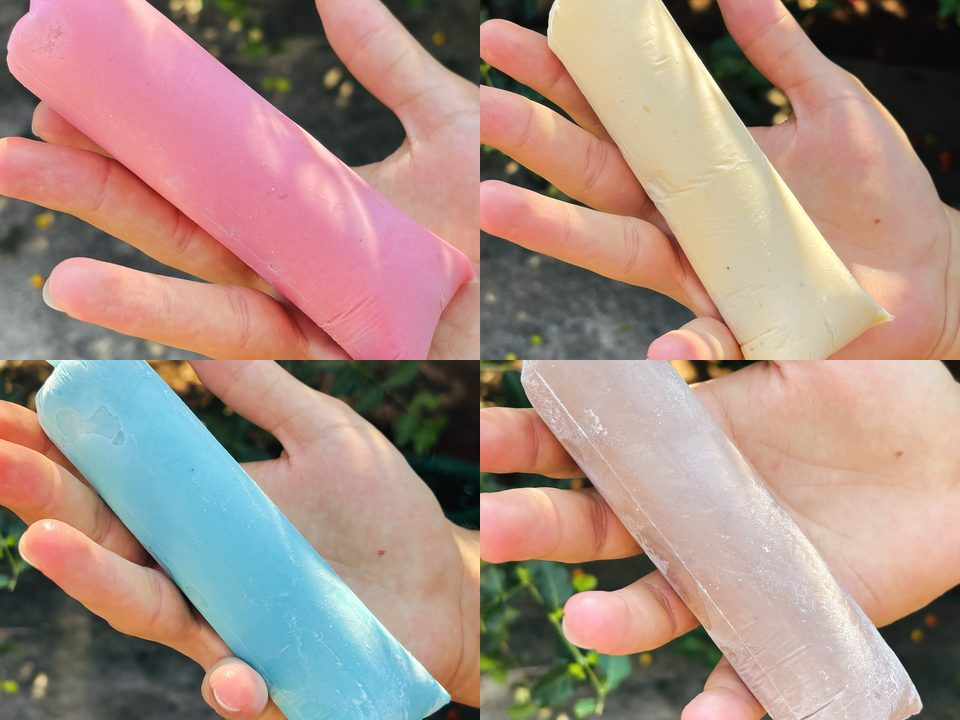
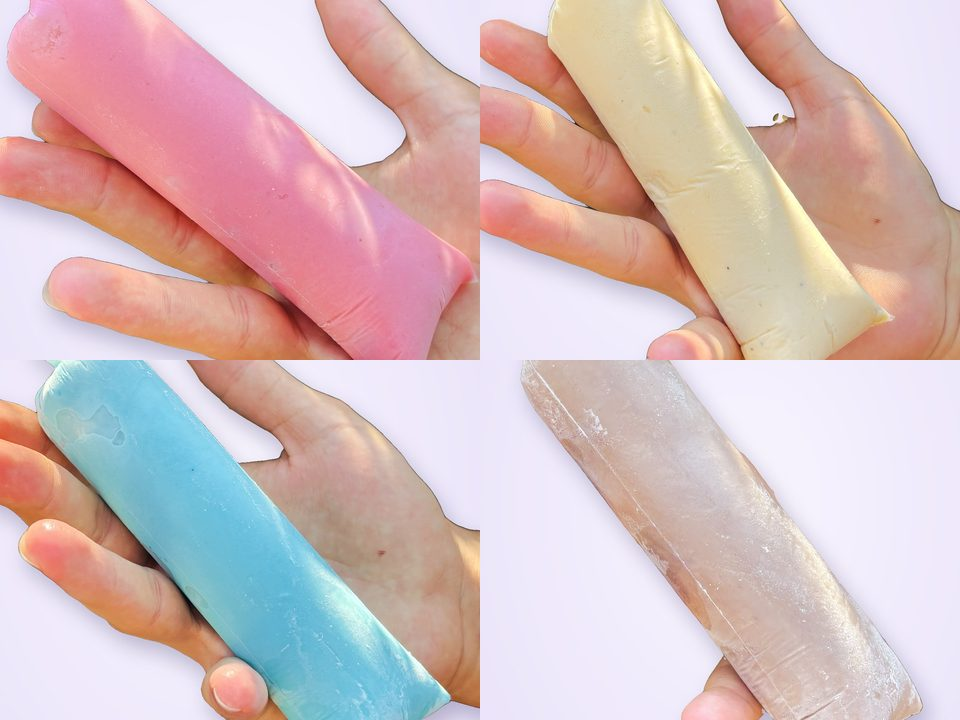
Fotos reais com fundo lilás da marca
Claude-Session: https://claude.ai/code/session_018LpWb9CWqbCqmGg4cnmTw6

diff --git a/brigadeiros/index.html b/brigadeiros/index.html
@@ -48,7 +48,7 @@
         <p class="apoio">A caixinha com a corujinha na tampa leva 4 brigadeiros. Pega a sortida ou escolhe os sabores que vão dentro.</p>
         <p class="preco"><span class="preco-grande">R$ 12</span> <span class="preco-nota">a caixinha</span></p>
       </div>
-      <div class="foto"><img src="/assets/img/brigadeiros.jpg?v=2" alt="Caixinha aberta com 4 brigadeiros" width="960" height="720"></div>
+      <div class="foto"><img src="/assets/img/brigadeiros.jpg?v=3" alt="Caixinha aberta com 4 brigadeiros" width="960" height="720"></div>
     </div>
   </section>
 
@@ -57,7 +57,7 @@
       <h2>Pronta ou do seu jeito</h2>
       <ul class="sabores">
         <li class="item sabor" data-nome="Caixinha sortida (4 brigadeiros)" data-preco="12">
-          <img class="sabor-foto" src="/assets/img/brigadeiros.jpg?v=2" alt="" width="88" height="88" loading="lazy">
+          <img class="sabor-foto" src="/assets/img/brigadeiros.jpg?v=3" alt="" width="88" height="88" loading="lazy">
           <div>
             <h3>Caixinha sortida</h3>
             <p class="sabor-nota">2 de chocolate, 1 de morango e 1 de chocolate branco</p>
@@ -81,7 +81,7 @@
         </div>
         <ul class="itens montador-sabores">
           <li class="item montador-sabor" data-sabor="chocolate">
-            <img class="sabor-foto" src="/assets/img/sabores/brigadeiro-chocolate.jpg?v=2" alt="" width="88" height="88" loading="lazy">
+            <img class="sabor-foto" src="/assets/img/sabores/brigadeiro-chocolate.jpg?v=3" alt="" width="88" height="88" loading="lazy">
             <span>Chocolate</span>
             <span class="contador">
               <button type="button" data-menos aria-label="Tirar 1 brigadeiro de chocolate">−</button>
@@ -90,7 +90,7 @@
             </span>
           </li>
           <li class="item montador-sabor" data-sabor="morango">
-            <img class="sabor-foto" src="/assets/img/sabores/brigadeiro-morango.jpg?v=2" alt="" width="88" height="88" loading="lazy">
+            <img class="sabor-foto" src="/assets/img/sabores/brigadeiro-morango.jpg?v=3" alt="" width="88" height="88" loading="lazy">
             <span>Morango</span>
             <span class="contador">
               <button type="button" data-menos aria-label="Tirar 1 brigadeiro de morango">−</button>
@@ -99,7 +99,7 @@
             </span>
           </li>
           <li class="item montador-sabor" data-sabor="chocolate branco">
-            <img class="sabor-foto" src="/assets/img/sabores/brigadeiro-chocolate-branco.jpg?v=2" alt="" width="88" height="88" loading="lazy">
+            <img class="sabor-foto" src="/assets/img/sabores/brigadeiro-chocolate-branco.jpg?v=3" alt="" width="88" height="88" loading="lazy">
             <span>Chocolate branco</span>
             <span class="contador">
               <button type="button" data-menos aria-label="Tirar 1 brigadeiro de chocolate branco">−</button>
@@ -154,7 +154,7 @@
 <a class="flutuante" href="https://wa.me/5537998765591?text=Oi%20Maju%21%20Vim%20pelo%20site%20e%20quero%20fazer%20uma%20encomenda." target="_blank" rel="noopener" aria-label="Pedir pelo WhatsApp">
   <svg viewBox="0 0 24 24" width="28" height="28" aria-hidden="true"><path fill="currentColor" d="M12 2a10 10 0 0 0-8.6 15.1L2 22l5-1.3A10 10 0 1 0 12 2zm0 18.2a8.2 8.2 0 0 1-4.2-1.2l-.3-.2-3 .8.8-2.9-.2-.3A8.2 8.2 0 1 1 12 20.2zm4.5-6.1c-.2-.1-1.5-.7-1.7-.8s-.4-.1-.6.1-.7.8-.8 1-.3.2-.5.1a6.7 6.7 0 0 1-3.3-2.9c-.3-.4.3-.4.7-1.3.1-.2 0-.3 0-.4l-.8-1.8c-.2-.5-.4-.4-.6-.4h-.5a1 1 0 0 0-.7.3 3 3 0 0 0-.9 2.2 5.2 5.2 0 0 0 1.1 2.7 11.8 11.8 0 0 0 4.5 4c1.7.7 2.3.8 3.2.6a2.6 2.6 0 0 0 1.7-1.2 2.1 2.1 0 0 0 .1-1.2c0-.1-.2-.2-.4-.3z"/></svg>
 </a>
-<script src="/assets/pedido.js?v=4" defer></script>
+<script src="/assets/pedido.js?v=5" defer></script>
 <script src="/assets/voltar.js?v=3" defer></script>
 </body>
 </html>

diff --git a/bolos/index.html b/bolos/index.html
@@ -48,7 +48,7 @@
         <p class="apoio">Fatia generosa no potinho quadrado com tampa. Escolhe os sabores e quantos de cada.</p>
         <p class="preco"><span class="preco-grande">R$ 12</span> <span class="preco-nota">o potinho</span></p>
       </div>
-      <div class="foto"><img src="/assets/img/bolos.jpg?v=2" alt="Bolo de fatia de chocolate no potinho" width="960" height="720"></div>
+      <div class="foto"><img src="/assets/img/bolos.jpg?v=3" alt="Bolo de fatia de chocolate no potinho" width="960" height="720"></div>
     </div>
   </section>
 
@@ -57,7 +57,7 @@
       <h2>Escolhe os sabores</h2>
       <ul class="sabores">
         <li class="item sabor" data-nome="Bolo de fatia chocolate com maracujá" data-preco="12">
-          <img class="sabor-foto" src="/assets/img/sabores/bolo-chocolate-maracuja.jpg?v=2" alt="" width="88" height="88" loading="lazy">
+          <img class="sabor-foto" src="/assets/img/sabores/bolo-chocolate-maracuja.jpg?v=3" alt="" width="88" height="88" loading="lazy">
           <div>
             <h3>Chocolate com maracujá</h3>
             <p class="preco"><span>R$ 12</span> <span class="preco-nota">o potinho</span></p>
@@ -69,7 +69,7 @@
           </span>
         </li>
         <li class="item sabor" data-nome="Bolo de fatia ninho com maracujá" data-preco="12">
-          <img class="sabor-foto" src="/assets/img/sabores/bolo-ninho-maracuja.jpg?v=2" alt="" width="88" height="88" loading="lazy">
+          <img class="sabor-foto" src="/assets/img/sabores/bolo-ninho-maracuja.jpg?v=3" alt="" width="88" height="88" loading="lazy">
           <div>
             <h3>Ninho com maracujá</h3>
             <p class="preco"><span>R$ 12</span> <span class="preco-nota">o potinho</span></p>
@@ -81,7 +81,7 @@
           </span>
         </li>
         <li class="item sabor" data-nome="Bolo de fatia chocolate puro" data-preco="12">
-          <img class="sabor-foto" src="/assets/img/sabores/bolo-chocolate.jpg?v=2" alt="" width="88" height="88" loading="lazy">
+          <img class="sabor-foto" src="/assets/img/sabores/bolo-chocolate.jpg?v=3" alt="" width="88" height="88" loading="lazy">
           <div>
             <h3>Chocolate puro</h3>
             <p class="preco"><span>R$ 12</span> <span class="preco-nota">o potinho</span></p>
@@ -93,7 +93,7 @@
           </span>
         </li>
         <li class="item sabor" data-nome="Bolo de fatia ninho puro" data-preco="12">
-          <img class="sabor-foto" src="/assets/img/sabores/bolo-ninho.jpg?v=2" alt="" width="88" height="88" loading="lazy">
+          <img class="sabor-foto" src="/assets/img/sabores/bolo-ninho.jpg?v=3" alt="" width="88" height="88" loading="lazy">
           <div>
             <h3>Ninho puro</h3>
             <p class="preco"><span>R$ 12</span> <span class="preco-nota">o potinho</span></p>
@@ -156,7 +156,7 @@
 <a class="flutuante" href="https://wa.me/5537998765591?text=Oi%20Maju%21%20Vim%20pelo%20site%20e%20quero%20fazer%20uma%20encomenda." target="_blank" rel="noopener" aria-label="Pedir pelo WhatsApp">
   <svg viewBox="0 0 24 24" width="28" height="28" aria-hidden="true"><path fill="currentColor" d="M12 2a10 10 0 0 0-8.6 15.1L2 22l5-1.3A10 10 0 1 0 12 2zm0 18.2a8.2 8.2 0 0 1-4.2-1.2l-.3-.2-3 .8.8-2.9-.2-.3A8.2 8.2 0 1 1 12 20.2zm4.5-6.1c-.2-.1-1.5-.7-1.7-.8s-.4-.1-.6.1-.7.8-.8 1-.3.2-.5.1a6.7 6.7 0 0 1-3.3-2.9c-.3-.4.3-.4.7-1.3.1-.2 0-.3 0-.4l-.8-1.8c-.2-.5-.4-.4-.6-.4h-.5a1 1 0 0 0-.7.3 3 3 0 0 0-.9 2.2 5.2 5.2 0 0 0 1.1 2.7 11.8 11.8 0 0 0 4.5 4c1.7.7 2.3.8 3.2.6a2.6 2.6 0 0 0 1.7-1.2 2.1 2.1 0 0 0 .1-1.2c0-.1-.2-.2-.4-.3z"/></svg>
 </a>
-<script src="/assets/pedido.js?v=4" defer></script>
+<script src="/assets/pedido.js?v=5" defer></script>
 <script src="/assets/voltar.js?v=3" defer></script>
 </body>
 </html>

diff --git a/geladinhos/index.html b/geladinhos/index.html
@@ -48,7 +48,7 @@
         <p class="apoio">Pra quando o calor aperta. Escolhe os sabores e guarda uns no freezer.</p>
         <p class="preco"><span class="preco-grande">R$ 5</span> <span class="preco-nota">cada</span></p>
       </div>
-      <div class="foto"><img src="/assets/img/geladinhos.jpg?v=2" alt="Geladinhos de morango, maracujá, chocolate e pedacinho do céu" width="960" height="720"></div>
+      <div class="foto"><img src="/assets/img/geladinhos.jpg?v=3" alt="Geladinhos de morango, maracujá, chocolate e pedacinho do céu" width="960" height="720"></div>
     </div>
   </section>
 
@@ -57,7 +57,7 @@
       <h2>Escolhe os sabores</h2>
       <ul class="sabores">
         <li class="item sabor" data-nome="Geladinho de chocolate" data-preco="5">
-          <img class="sabor-foto" src="/assets/img/sabores/geladinho-chocolate.jpg?v=2" alt="" width="88" height="88" loading="lazy">
+          <img class="sabor-foto" src="/assets/img/sabores/geladinho-chocolate.jpg?v=3" alt="" width="88" height="88" loading="lazy">
           <div>
             <h3>Chocolate</h3>
             <p class="preco"><span>R$ 5</span> <span class="preco-nota">cada</span></p>
@@ -69,7 +69,7 @@
           </span>
         </li>
         <li class="item sabor" data-nome="Geladinho de morango" data-preco="5">
-          <img class="sabor-foto" src="/assets/img/sabores/geladinho-morango.jpg?v=2" alt="" width="88" height="88" loading="lazy">
+          <img class="sabor-foto" src="/assets/img/sabores/geladinho-morango.jpg?v=3" alt="" width="88" height="88" loading="lazy">
           <div>
             <h3>Morango</h3>
             <p class="preco"><span>R$ 5</span> <span class="preco-nota">cada</span></p>
@@ -81,7 +81,7 @@
           </span>
         </li>
         <li class="item sabor" data-nome="Geladinho de maracujá" data-preco="5">
-          <img class="sabor-foto" src="/assets/img/sabores/geladinho-maracuja.jpg?v=2" alt="" width="88" height="88" loading="lazy">
+          <img class="sabor-foto" src="/assets/img/sabores/geladinho-maracuja.jpg?v=3" alt="" width="88" height="88" loading="lazy">
           <div>
             <h3>Maracujá</h3>
             <p class="preco"><span>R$ 5</span> <span class="preco-nota">cada</span></p>
@@ -93,7 +93,7 @@
           </span>
         </li>
         <li class="item sabor" data-nome="Geladinho de pedacinho do céu" data-preco="5">
-          <img class="sabor-foto" src="/assets/img/sabores/geladinho-pedacinho-do-ceu.jpg?v=2" alt="" width="88" height="88" loading="lazy">
+          <img class="sabor-foto" src="/assets/img/sabores/geladinho-pedacinho-do-ceu.jpg?v=3" alt="" width="88" height="88" loading="lazy">
           <div>
             <h3>Pedacinho do céu</h3>
             <p class="preco"><span>R$ 5</span> <span class="preco-nota">cada</span></p>
@@ -144,7 +144,7 @@
 <a class="flutuante" href="https://wa.me/5537998765591?text=Oi%20Maju%21%20Vim%20pelo%20site%20e%20quero%20fazer%20uma%20encomenda." target="_blank" rel="noopener" aria-label="Pedir pelo WhatsApp">
   <svg viewBox="0 0 24 24" width="28" height="28" aria-hidden="true"><path fill="currentColor" d="M12 2a10 10 0 0 0-8.6 15.1L2 22l5-1.3A10 10 0 1 0 12 2zm0 18.2a8.2 8.2 0 0 1-4.2-1.2l-.3-.2-3 .8.8-2.9-.2-.3A8.2 8.2 0 1 1 12 20.2zm4.5-6.1c-.2-.1-1.5-.7-1.7-.8s-.4-.1-.6.1-.7.8-.8 1-.3.2-.5.1a6.7 6.7 0 0 1-3.3-2.9c-.3-.4.3-.4.7-1.3.1-.2 0-.3 0-.4l-.8-1.8c-.2-.5-.4-.4-.6-.4h-.5a1 1 0 0 0-.7.3 3 3 0 0 0-.9 2.2 5.2 5.2 0 0 0 1.1 2.7 11.8 11.8 0 0 0 4.5 4c1.7.7 2.3.8 3.2.6a2.6 2.6 0 0 0 1.7-1.2 2.1 2.1 0 0 0 .1-1.2c0-.1-.2-.2-.4-.3z"/></svg>
 </a>
-<script src="/assets/pedido.js?v=4" defer></script>
+<script src="/assets/pedido.js?v=5" defer></script>
 <script src="/assets/voltar.js?v=3" defer></script>
 </body>
 </html>

diff --git a/index.html b/index.html
@@ -64,28 +64,28 @@
       <h2>Escolhe o seu <em>(ou todos).</em></h2>
       <div class="grade-produtos">
         <article class="cartao cartao-claro produto">
-          <div class="foto"><img src="/assets/img/bolos.jpg?v=2" alt="Bolo de fatia de chocolate no potinho" width="960" height="720" loading="lazy"></div>
+          <div class="foto"><img src="/assets/img/bolos.jpg?v=3" alt="Bolo de fatia de chocolate no potinho" width="960" height="720" loading="lazy"></div>
           <p class="rotulo">Bolos</p>
           <h3>Bolo de fatia <em>no potinho</em></h3>
           <p class="preco"><span class="preco-grande">R$ 12</span> <span class="preco-nota">o potinho</span></p>
           <a class="botao" href="/bolos/">Ver sabores →</a>
         </article>
         <article class="cartao cartao-rosa produto">
-          <div class="foto"><img src="/assets/img/brigadeiros.jpg?v=2" alt="Caixinha aberta com 4 brigadeiros" width="960" height="720" loading="lazy"></div>
+          <div class="foto"><img src="/assets/img/brigadeiros.jpg?v=3" alt="Caixinha aberta com 4 brigadeiros" width="960" height="720" loading="lazy"></div>
           <p class="rotulo">Brigadeiros</p>
           <h3>Caixinha com <em>4 brigadeiros</em></h3>
           <p class="preco"><span class="preco-grande">R$ 12</span> <span class="preco-nota">a caixinha</span></p>
           <a class="botao" href="/brigadeiros/">Montar caixinha →</a>
         </article>
         <article class="cartao cartao-claro produto">
-          <div class="foto"><img src="/assets/img/tortas.jpg?v=2" alt="Tortinha de limão no pote redondo" width="960" height="720" loading="lazy"></div>
+          <div class="foto"><img src="/assets/img/tortas.jpg?v=3" alt="Tortinha de limão no pote redondo" width="960" height="720" loading="lazy"></div>
           <p class="rotulo">Tortas</p>
           <h3>Tortinha <em>individual</em></h3>
           <p class="preco"><span class="preco-grande">R$ 10</span> <span class="preco-nota">a tortinha</span></p>
           <a class="botao" href="/tortas/">Ver sabores →</a>
         </article>
         <article class="cartao cartao-escuro produto">
-          <div class="foto"><img src="/assets/img/geladinhos.jpg?v=2" alt="Geladinhos de morango, maracujá, chocolate e pedacinho do céu" width="960" height="720" loading="lazy"></div>
+          <div class="foto"><img src="/assets/img/geladinhos.jpg?v=3" alt="Geladinhos de morango, maracujá, chocolate e pedacinho do céu" width="960" height="720" loading="lazy"></div>
           <p class="rotulo">Geladinhos</p>
           <h3>Geladinho <em>cremoso</em></h3>
           <p class="preco"><span class="preco-grande">R$ 5</span> <span class="preco-nota">cada</span></p>

diff --git a/tortas/index.html b/tortas/index.html
@@ -48,7 +48,7 @@
         <p class="apoio">Uma inteira só sua, no pote redondo. Escolhe os sabores e quantas de cada.</p>
         <p class="preco"><span class="preco-grande">R$ 10</span> <span class="preco-nota">a tortinha</span></p>
       </div>
-      <div class="foto"><img src="/assets/img/tortas.jpg?v=2" alt="Tortinha de limão no pote redondo" width="960" height="720"></div>
+      <div class="foto"><img src="/assets/img/tortas.jpg?v=3" alt="Tortinha de limão no pote redondo" width="960" height="720"></div>
     </div>
   </section>
 
@@ -57,7 +57,7 @@
       <h2>Escolhe os sabores</h2>
       <ul class="sabores">
         <li class="item sabor" data-nome="Tortinha de limão" data-preco="10">
-          <img class="sabor-foto" src="/assets/img/sabores/tortinha-limao.jpg?v=2" alt="" width="88" height="88" loading="lazy">
+          <img class="sabor-foto" src="/assets/img/sabores/tortinha-limao.jpg?v=3" alt="" width="88" height="88" loading="lazy">
           <div>
             <h3>Limão</h3>
             <p class="preco"><span>R$ 10</span> <span class="preco-nota">a tortinha</span></p>
@@ -69,7 +69,7 @@
           </span>
         </li>
         <li class="item sabor" data-nome="Tortinha de maracujá" data-preco="10">
-          <img class="sabor-foto" src="/assets/img/sabores/tortinha-maracuja.jpg?v=2" alt="" width="88" height="88" loading="lazy">
+          <img class="sabor-foto" src="/assets/img/sabores/tortinha-maracuja.jpg?v=3" alt="" width="88" height="88" loading="lazy">
           <div>
             <h3>Maracujá</h3>
             <p class="preco"><span>R$ 10</span> <span class="preco-nota">a tortinha</span></p>
@@ -120,7 +120,7 @@
 <a class="flutuante" href="https://wa.me/5537998765591?text=Oi%20Maju%21%20Vim%20pelo%20site%20e%20quero%20fazer%20uma%20encomenda." target="_blank" rel="noopener" aria-label="Pedir pelo WhatsApp">
   <svg viewBox="0 0 24 24" width="28" height="28" aria-hidden="true"><path fill="currentColor" d="M12 2a10 10 0 0 0-8.6 15.1L2 22l5-1.3A10 10 0 1 0 12 2zm0 18.2a8.2 8.2 0 0 1-4.2-1.2l-.3-.2-3 .8.8-2.9-.2-.3A8.2 8.2 0 1 1 12 20.2zm4.5-6.1c-.2-.1-1.5-.7-1.7-.8s-.4-.1-.6.1-.7.8-.8 1-.3.2-.5.1a6.7 6.7 0 0 1-3.3-2.9c-.3-.4.3-.4.7-1.3.1-.2 0-.3 0-.4l-.8-1.8c-.2-.5-.4-.4-.6-.4h-.5a1 1 0 0 0-.7.3 3 3 0 0 0-.9 2.2 5.2 5.2 0 0 0 1.1 2.7 11.8 11.8 0 0 0 4.5 4c1.7.7 2.3.8 3.2.6a2.6 2.6 0 0 0 1.7-1.2 2.1 2.1 0 0 0 .1-1.2c0-.1-.2-.2-.4-.3z"/></svg>
 </a>
-<script src="/assets/pedido.js?v=4" defer></script>
+<script src="/assets/pedido.js?v=5" defer></script>
 <script src="/assets/voltar.js?v=3" defer></script>
 </body>
 </html>

diff --git a/design/index.html b/design/index.html
@@ -122,9 +122,9 @@
       <div>
         <h2>Cartões</h2>
         <div class="grade-cartoes">
-          <article class="cartao cartao-claro"><div class="foto"><img src="/assets/img/bolos.jpg?v=2" alt="Bolo de fatia de chocolate no potinho" width="960" height="720" loading="lazy"></div><p class="rotulo">Claro</p><h3>Cartão <em>claro</em></h3></article>
-          <article class="cartao cartao-rosa"><div class="foto"><img src="/assets/img/brigadeiros.jpg?v=2" alt="Caixinha aberta com 4 brigadeiros" width="960" height="720" loading="lazy"></div><p class="rotulo">Rosa</p><h3>Cartão <em>rosa</em></h3></article>
-          <article class="cartao cartao-escuro"><div class="foto"><img src="/assets/img/geladinhos.jpg?v=2" alt="Geladinhos de morango, maracujá, chocolate e pedacinho do céu" width="960" height="720" loading="lazy"></div><p class="rotulo">Escuro</p><h3>Cartão <em>escuro</em></h3><p class="preco"><span class="preco-grande">R$ 5</span></p></article>
+          <article class="cartao cartao-claro"><div class="foto"><img src="/assets/img/bolos.jpg?v=3" alt="Bolo de fatia de chocolate no potinho" width="960" height="720" loading="lazy"></div><p class="rotulo">Claro</p><h3>Cartão <em>claro</em></h3></article>
+          <article class="cartao cartao-rosa"><div class="foto"><img src="/assets/img/brigadeiros.jpg?v=3" alt="Caixinha aberta com 4 brigadeiros" width="960" height="720" loading="lazy"></div><p class="rotulo">Rosa</p><h3>Cartão <em>rosa</em></h3></article>
+          <article class="cartao cartao-escuro"><div class="foto"><img src="/assets/img/geladinhos.jpg?v=3" alt="Geladinhos de morango, maracujá, chocolate e pedacinho do céu" width="960" height="720" loading="lazy"></div><p class="rotulo">Escuro</p><h3>Cartão <em>escuro</em></h3><p class="preco"><span class="preco-grande">R$ 5</span></p></article>
         </div>
       </div>
 

diff --git a/assets/pedido.js b/assets/pedido.js
@@ -40,7 +40,7 @@
       li.dataset.preco = pedido[nome].preco;
       var img = document.createElement('img');
       img.className = 'sabor-foto';
-      img.src = '/assets/img/brigadeiros.jpg?v=2';
+      img.src = '/assets/img/brigadeiros.jpg?v=3';
       img.alt = ''; img.width = 88; img.height = 88;
       var texto = document.createElement('div');
       var h3 = document.createElement('h3');

diff --git a/README.md b/README.md
@@ -26,7 +26,7 @@ Tudo em `assets/estilo.css`: os tokens ficam no começo (`--cor-*`, `--t-*`, `--
 
 ## Fotos e logo
 
-Tudo em `assets/img/`. As fotos dos doces são reais (fotos da Maju, outubro de 2026):
+Tudo em `assets/img/`. As fotos dos doces são reais (fotos da Maju, outubro de 2026), com o fundo trocado por um lilás claro da marca (recorte automático com rembg, fora do site):
 
 - `bolos.jpg`, `brigadeiros.jpg`, `tortas.jpg`, `geladinhos.jpg`: foto grande de cada página e dos cartões do Início (960x720). A dos geladinhos junta os 4 sabores.
 - `sabores/`: miniatura de cada sabor (240x240): bolos de chocolate, chocolate com maracujá, ninho e ninho com maracujá; brigadeiros de chocolate, morango e chocolate branco; tortinhas de limão e maracujá; geladinhos de chocolate, morango, maracujá e pedacinho do céu.
